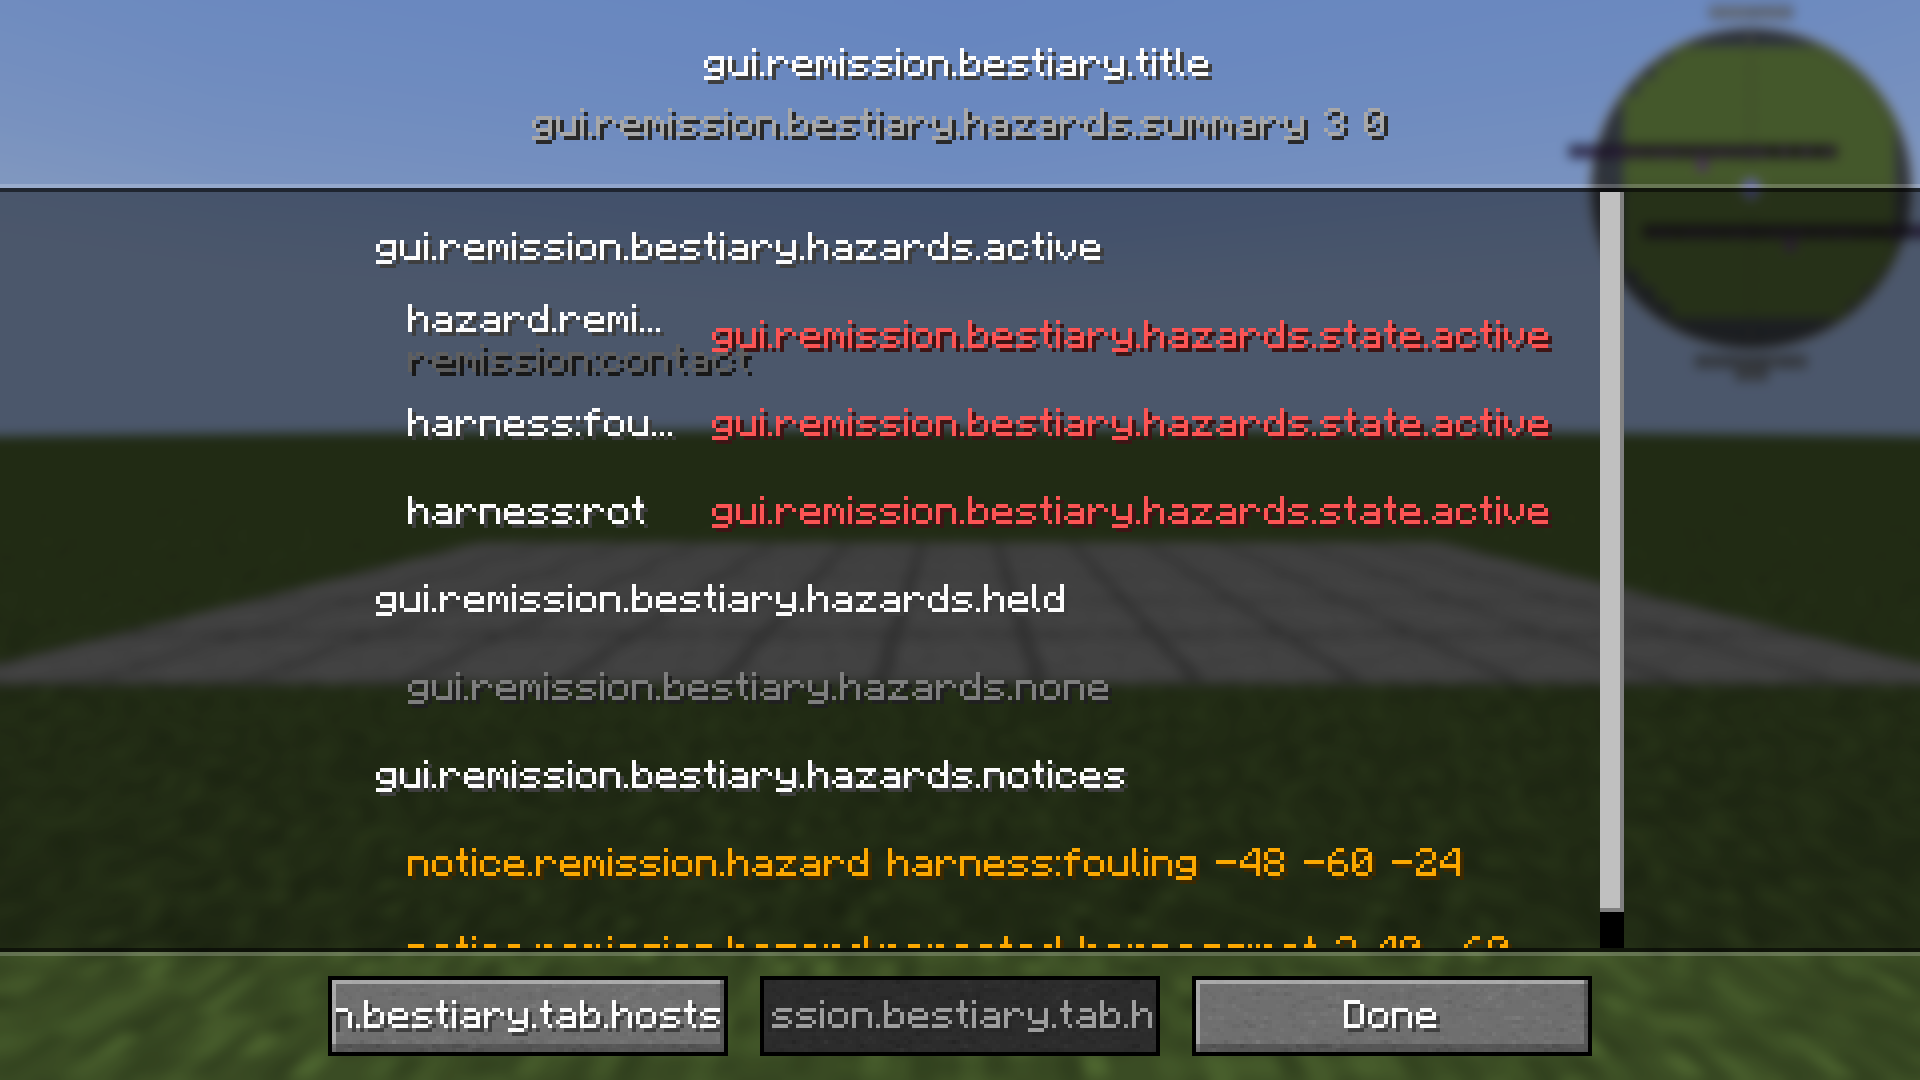
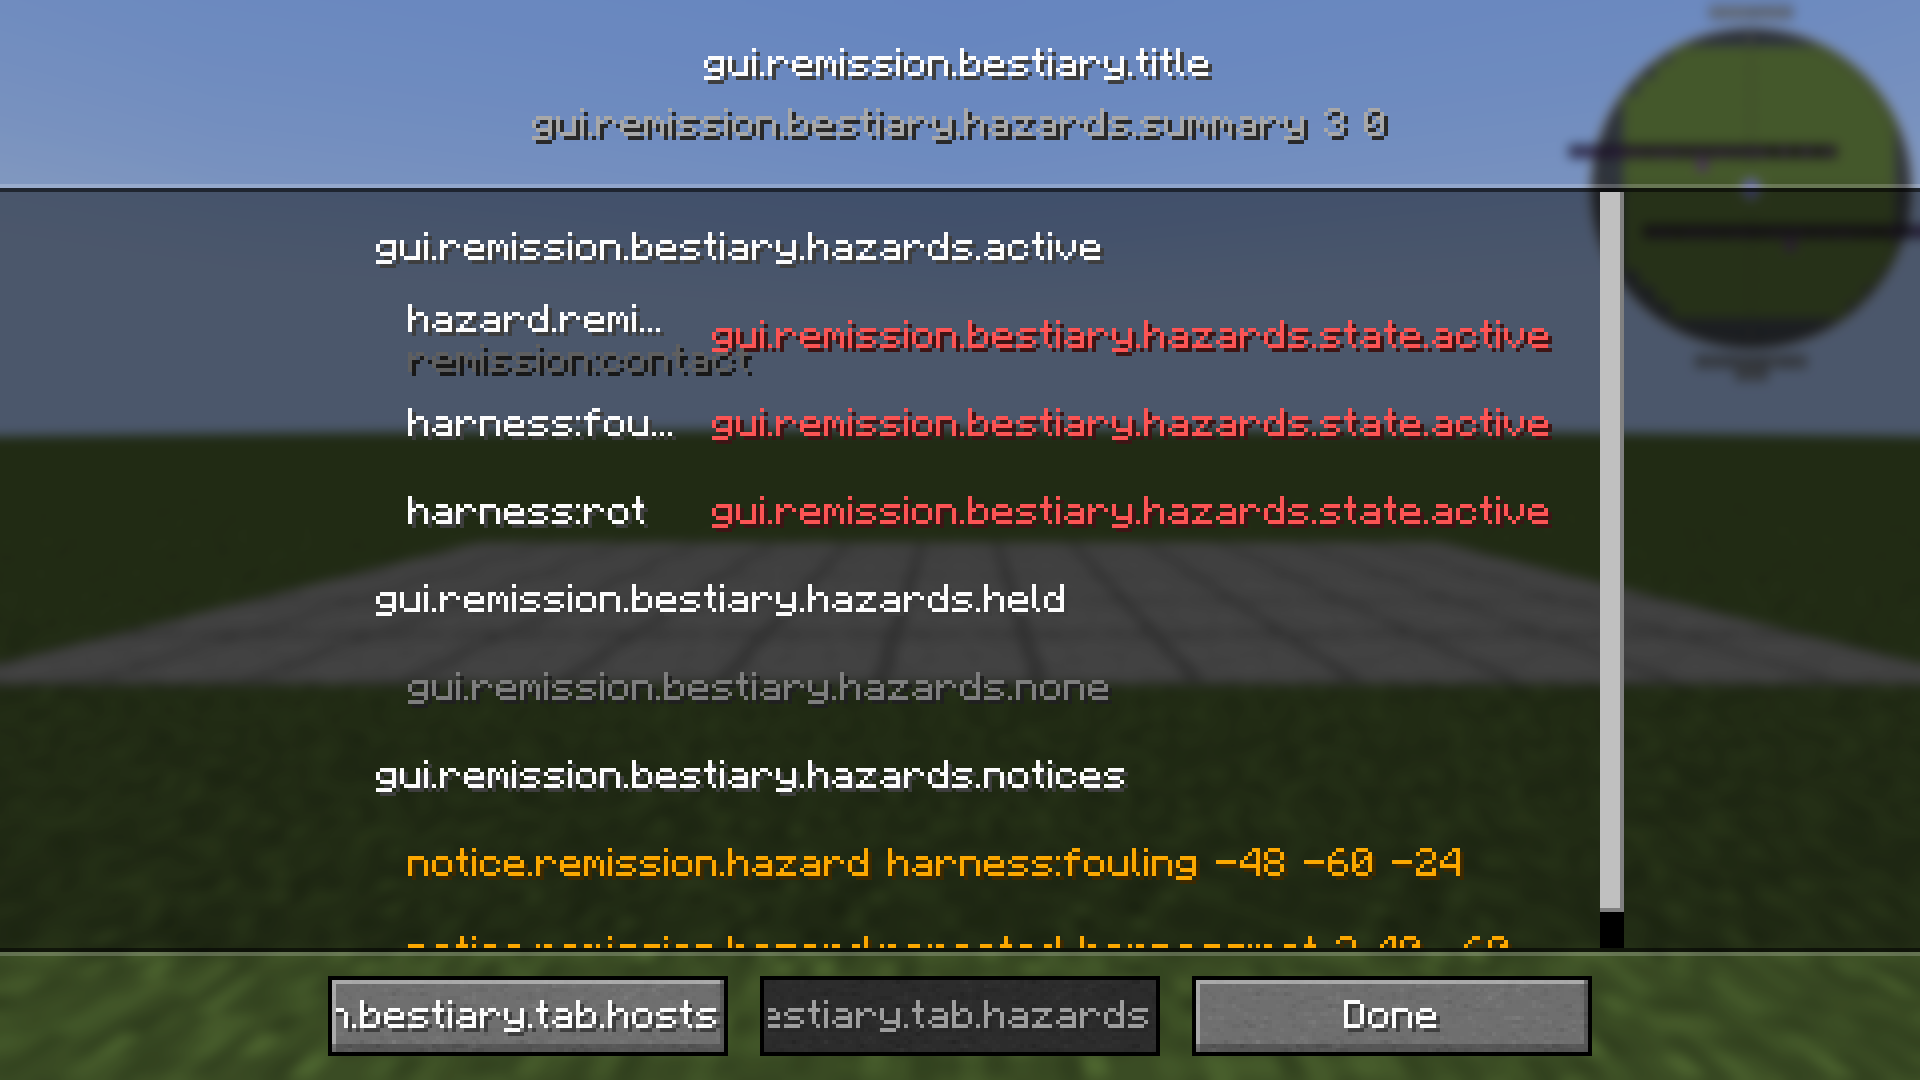
Tests: Freeze scrolling labels and settle map shots in scenes (#122)

Changed region(s): [[0.1875, 0.9167, 0.375, 0.9778], [0.4062, 0.9167, 0.5938, 0.9778]]

diff --git a/mod/src/harness/java/com/cubiecode/remission/harness/SceneRunner.java b/mod/src/harness/java/com/cubiecode/remission/harness/SceneRunner.java
@@ -24,6 +24,7 @@ import java.util.concurrent.CompletableFuture;
 import java.util.concurrent.TimeUnit;
 import java.util.concurrent.atomic.AtomicBoolean;
 import java.util.stream.Stream;
+import net.minecraft.Util;
 import net.minecraft.client.CloudStatus;
 import net.minecraft.client.GraphicsStatus;
 import net.minecraft.client.KeyMapping;
@@ -52,8 +53,10 @@ import net.minecraft.network.chat.contents.TranslatableContents;
 import net.minecraft.resources.ResourceLocation;
 import net.minecraft.server.MinecraftServer;
 import net.minecraft.server.level.ServerLevel;
+import net.minecraft.server.level.ChunkTrackingView;
 import net.minecraft.server.level.ServerPlayer;
 import net.minecraft.util.Mth;
+import net.minecraft.util.TimeSource;
 import net.minecraft.world.Difficulty;
 import net.minecraft.world.entity.Entity;
 import net.minecraft.world.entity.EntityType;
@@ -88,6 +91,11 @@ final class SceneRunner {
     static final int RENDER_DISTANCE = 8;
     /** Client ticks the world must stay loaded and compiled before a shot (2 s). */
     static final int SETTLE_TICKS = 40;
+    /**
+     * Settled client ticks before a {@code map} shot (5 s): JourneyMap maps the loaded chunks on its own thread every 2 s
+     * ({@code autoMapPoll}), so this spans two of its passes after the last chunk arrived.
+     */
+    static final int MAP_SETTLE_TICKS = 100;
     static final String RESULT_FILE = "harness-result.txt";
     /** JourneyMap full-screen zoom for {@code map} shots: four times its default (512), so the land near the camera fills the screen. */
     static final int MAP_ZOOM = 2048;
@@ -103,6 +111,14 @@ final class SceneRunner {
      */
     private static final Map<Object, Object> JOURNEYMAP_ORIGINALS = new IdentityHashMap<>();
     private static final Set<Object> JOURNEYMAP_PROPERTIES = Collections.newSetFromMap(new IdentityHashMap<>());
+
+    /**
+     * Whether {@link Util}'s clock reads {@link #SCREEN_NANOS}: only while one of Remission's screens renders in a shot.
+     * A label wider than its button scrolls with that clock (lang values are their keys until the writing pass), so a
+     * shot would otherwise catch it at a different offset in every run.
+     */
+    private static volatile boolean screenClockFrozen;
+    private static final long SCREEN_NANOS = 0L;
 
     private enum Phase { WAIT_TITLE, LOADING, SETUP, SHOOTING, LEAVING, DONE }
 
@@ -135,6 +151,8 @@ final class SceneRunner {
         this.sceneIds = List.copyOf(sceneIds);
         this.outputRoot = outputRoot;
         this.timeoutNanos = TimeUnit.SECONDS.toNanos(timeoutSeconds);
+        TimeSource.NanoTimeSource clock = Util.timeSource;
+        Util.timeSource = () -> screenClockFrozen ? SCREEN_NANOS : clock.getAsLong();
         beginScene(0);
         Thread watchdog = new Thread(() -> {
             while (phase != Phase.DONE) {
@@ -254,7 +272,7 @@ final class SceneRunner {
                 openMap(mc);
                 openInventory(mc);
                 stableTicks = isSettled(mc) ? stableTicks + 1 : 0;
-                if (stableTicks >= SETTLE_TICKS) {
+                if (stableTicks >= (scene.shots().get(shotIndex).map() ? MAP_SETTLE_TICKS : SETTLE_TICKS)) {
                     captureRequested = true;
                 }
             }
@@ -549,7 +567,9 @@ final class SceneRunner {
 
     /**
      * Camera in place, every chunk in view loaded, no section compiles queued, and no {@code tick step} still running on
-     * the server or the client (a shot command may step the frozen world; the shot shows where the steps end).
+     * the server or the client (a shot command may step the frozen world; the shot shows where the steps end). A
+     * {@code map} shot also waits for every chunk the server sends the player, out to the edge of the view distance:
+     * JourneyMap maps each loaded chunk, so one still on its way would leave a gap at the map's edge.
      */
     private boolean isSettled(Minecraft mc) {
         boolean wantsScreen = scene.shots().get(shotIndex).wantsScreen();
@@ -576,6 +596,17 @@ final class SceneRunner {
                         && !mc.level.getChunkSource().hasChunk(center.x + dx, center.z + dz)) {
                     return false;
                 }
+            }
+        }
+        if (scene.shots().get(shotIndex).map()) {
+            int[] missing = {0};
+            ChunkTrackingView.of(center, RENDER_DISTANCE).forEach(chunk -> {
+                if (!mc.level.getChunkSource().hasChunk(chunk.x, chunk.z)) {
+                    missing[0]++;
+                }
+            });
+            if (missing[0] > 0) {
+                return false;
             }
         }
         return mc.levelRenderer.hasRenderedAllSections();
@@ -683,6 +714,24 @@ final class SceneRunner {
         mc.setScreen(new InventoryScreen(mc.player));
         inventoryOpened = true;
         RemissionHarness.LOGGER.info("Scene {}: opened the inventory for the tooltip of slot {}", sceneId, shot.tooltip().get());
+    }
+
+    /** Freezes {@link Util}'s clock while one of Remission's screens renders in a shot ({@link #screenClockFrozen}). */
+    @SubscribeEvent
+    public void onScreenRenderPre(ScreenEvent.Render.Pre event) {
+        screenClockFrozen = phase == Phase.SHOOTING
+                && event.getScreen().getClass().getName().startsWith("com.cubiecode.remission.");
+    }
+
+    @SubscribeEvent
+    public void onScreenRenderPost(ScreenEvent.Render.Post event) {
+        screenClockFrozen = false;
+    }
+
+    /** Never leaves the clock frozen past a frame, should a screen's render throw between Pre and Post. */
+    @SubscribeEvent
+    public void onRenderFramePre(RenderFrameEvent.Pre event) {
+        screenClockFrozen = false;
     }
 
     /**

diff --git a/.agents/skills/visual-checks/SKILL.md b/.agents/skills/visual-checks/SKILL.md
@@ -89,9 +89,9 @@ Visual evidence is only valid from a GPU run. The log must name the RTX 4070 (he
 - A shot's optional `commands` (list of server commands, no slash) run on the server right after the camera move, before the shot settles: use them to change chunks an earlier shot already loaded on the client, so the shot shows the change arriving as an update (P4.2's `world/biome_flip` checks the biome resend this way). Any failing command fails the scene. A shot also waits until a `tick step` (from its commands) has finished on the server and the client, so it shows where the steps end (P4.3's `world/miasma_cloud` steps its clouds this way).
 - A shot's optional `recipes` names a recipe category (e.g. `"recipes": "remission:analyzing"`): once the camera is in place the harness opens it in EMI's recipe screen when EMI is loaded, else in JEI's (from the inventory screen, retrying until the viewer has loaded its recipes), and the shot waits for the screen. It fails without EMI or JEI. `"screen": true` says a shot command opens a screen (such as `harness player use`), so the shot waits for it.
 - A shot's optional `tooltip` (P5.7) names an inventory menu slot (9–35 main inventory, 36–44 hotbar; e.g. `"tooltip": 36` for the first hotbar slot): once the camera is in place the harness opens the survival inventory and draws that slot's highlight and item tooltip as if the mouse hovered it (the real cursor stays at the screen centre, so the slot under it is highlighted too). The scene must make the player survival or adventure (the creative inventory replaces the screen) and fill the slot; the shot fails on an empty slot.
-- A shot's optional `button` (P5.8) names the lang key of a button on the screen the shot's `press` opened (e.g. `"button": "gui.remission.bestiary.tab.hazards"`); the harness presses it once the screen is open, and the shot settles afterwards. The scene fails if the screen has no such button.
+- A shot's optional `button` (P5.8) names the lang key of a button on the screen the shot's `press` opened (e.g. `"button": "gui.remission.bestiary.tab.hazards"`); the harness presses it once the screen is open, and the shot settles afterwards. The scene fails if the screen has no such button. A label wider than its button scrolls with wall-clock time (vanilla `renderScrollingString`), as every lang key used as a placeholder value does, so while one of Remission's screens renders in a shot the harness freezes `Util`'s clock: the label stops at the end of its text in every run.
 - `harness notice <hazard> <pos> <count>` (harness-only, P5.8) reports `count` strikes of `hazard` at `pos` through the hazard notice API with each player as the placer, then sends every open group at once instead of after the grouping time, so the notices reach the client during setup.
-- A shot's optional `map: true` (P8.2) opens JourneyMap's full-screen map once the camera is in place (JourneyMap's own key, J, is shared with other mappings, so `press` cannot), and the shot waits for it. Before opening, the harness marks JourneyMap's first-run splash as seen and sets the full-screen zoom to 2048 (four times the default), in memory only. It fails without JourneyMap. The map is centred on the camera.
+- A shot's optional `map: true` (P8.2) opens JourneyMap's full-screen map once the camera is in place (JourneyMap's own key, J, is shared with other mappings, so `press` cannot), and the shot waits for it. Before opening, the harness marks JourneyMap's first-run splash as seen and sets the full-screen zoom to 2048 (four times the default), in memory only. It fails without JourneyMap. The map is centred on the camera. JourneyMap maps loaded chunks on its own thread every 2 s, so a map shot also waits for every chunk the server sends the player (the whole view distance, not only the inner radius other shots wait for) and then settles for 5 s instead of 2, two of its passes; before that, `quest/map_overlay`'s `before` sometimes caught the map's edge part-mapped.
 - A shot's optional `press` names a key mapping (e.g. `"press": "key.remission.bestiary"`). Once the camera is in place the harness clicks that mapping's key, and the shot waits for a screen to be open instead of for none; the screen is closed before the next shot. The scene fails if another mapping active in game shares the key, since the click would reach both. The GUI is hidden only for the HUD: a screen renders, and JourneyMap may draw its minimap behind it.
 - A shot's optional `hud: true` shows the GUI for that shot (hidden otherwise) and `gui_scale` sets the GUI scale (0, the default, is auto: 4 at 1920x1080); the scene must make the player survival or adventure to show health, hunger and Remission's rows. For HUD shots the harness clears chat, leaves out the camera overlays (the vignette eases per rendered frame, so it varied between runs) and turns JourneyMap's minimap off (it maps in the background). The harness pins the minimap for every shot, off for HUD shots and on otherwise (screens show it behind them, as the references do), and after a HUD shot turns it back on and saves that, because JourneyMap may save its properties mid-shot and the run directory persists: a scene never depends on the minimap setting an earlier scene left in `mod/run/client/journeymap/` (P4.10 found `world/nidus_fight` saving it off, which removed the minimap from later `tech/machines` and `tech/recipe_viewer` runs). Add `gamerule sendCommandFeedback false` to setup so command feedback does not reach chat (P5.1).
 - `harness purify` (harness-only, P5.2) runs the level's quarantine pylon passes until no loaded warded chunk is festering and then every queued chunk cleanse, at once, as the budgeted passes would over minutes (frozen ticks purify nothing on their own). Place the pylon with `setblock` first, and follow it with `harness resend` over the area.

diff --git a/docs/ARCHITECTURE.md b/docs/ARCHITECTURE.md
@@ -680,7 +680,7 @@ All schemas start as stubs in the remission-data-formats skill and change only w
 - **Integrations pack-side first:** each tie-in in DESIGN's Pack integrations table is pack-side (KubeJS, datapacks on Remission's surfaces) unless the other mod's content can be registered or hooked only from Java; then it is a guarded `integration/<modid>/` package. P10.1 owns membership (`pack/mods/`) and the `compileOnly`/dev-runtime entries for every mod-side integration, so later phase 10 lanes do not touch build files.
 - **Content provenance:** player-facing content is tracked in [CONTENT-PROVENANCE](CONTENT-PROVENANCE.md); `tools/check-provenance.sh` (CI: `docs.yml`) fails when an image, sound or model has no row, and when a texture's magenta placeholder marker disagrees with its row's status. `tools/content-editor.sh` replaces content and updates rows without hand-editing files (DEV-ENVIRONMENT, "Content editor").
 - **Pack datapack in the pack's `kubejs/data/`:** KubeJS loads it as a datapack in every world without another mod. Every file under it is read as a datapack resource, so it holds only lowercase datapack paths (no READMEs; KubeJS reports an uppercase name as a startup error).
-- **Scene harness determinism and exit:** scenes freeze the tick (`/tick freeze`) after time and weather (players keep ticking, so the harness pins the local player's `tickCount` while shooting), stop atlas texture animations at their first frame before the first shot (they advance with client ticks; since P4.6, for sculk in `world/caves`), spawn mobs without `finalizeSpawn` (no random gear or variants), and pin the image-affecting options in memory (GUI hidden, clouds off, render distance 8, FOV 70, fancy graphics). Repeated runs give byte-identical PNGs on foundry. The harness ends the process with libc `_exit` after flushing logs, because under VirtualGL's EGL back end the NVIDIA driver segfaults in `libEGL_nvidia` during libc `exit()`: a normal quit, `System.exit` and `Runtime.halt` all end with exit code 134.
+- **Scene harness determinism and exit:** scenes freeze the tick (`/tick freeze`) after time and weather (players keep ticking, so the harness pins the local player's `tickCount` while shooting), stop atlas texture animations at their first frame before the first shot (they advance with client ticks; since P4.6, for sculk in `world/caves`), spawn mobs without `finalizeSpawn` (no random gear or variants), and pin the image-affecting options in memory (GUI hidden, clouds off, render distance 8, FOV 70, fancy graphics). While one of Remission's screens renders in a shot, `Util`'s clock is frozen, so labels too wide for their buttons (placeholder lang keys) stop scrolling; map shots wait for the whole view distance and two of JourneyMap's 2 s mapping passes. Repeated runs give byte-identical PNGs on foundry. The harness ends the process with libc `_exit` after flushing logs, because under VirtualGL's EGL back end the NVIDIA driver segfaults in `libEGL_nvidia` during libc `exit()`: a normal quit, `System.exit` and `Runtime.halt` all end with exit code 134.
 - **Biome flip uses vanilla's resend:** the flip rewrites the chunk's biome containers with `fillBiomesFromNoise` and resends them with `ChunkMap.resendBiomesForChunks` (`ClientboundChunksBiomesPacket`), as `/fillbiome` does, instead of a Remission payload or a full chunk resend, so `RemissionNetwork` stays payload-free and the client's own handler refreshes tints and sections. P4.2 checked it against a lighting difference in `world/stages` (a canopy shadow missing in some runs): sky light probes showed correct light on the server and stale light on the client for chunks the harness edited while they were still pending send, flipped or not (vanilla sends no light update for a chunk pending send). That is a harness timing effect, handled by `harness resend` (visual-checks), not a flip artefact; a full chunk resend made it worse, not better.
 - **Festering transformations are data maps:** `festers_into` (blocks) and `fester_variant` (biomes) use NeoForge data maps rather than tags per target or a datapack registry: tag or id keys, `/reload`, removals and conditions come for free, and one value names both the target and its stage.
 - **Performance:** spread, catch-up and visual stage changes must be budgeted per tick and measured on foundry (phase 12 includes client FPS under heavy spread). The spread engine is measured by `SpreadBenchmark`, a gametest generator registered only when `REMISSION_SPREAD_BENCHMARK` is set (`REMISSION_SPREAD_BENCHMARK=1 ./gradlew runGameTestServer`); it writes `run/gametest/spread-benchmark-<case>.txt`.
